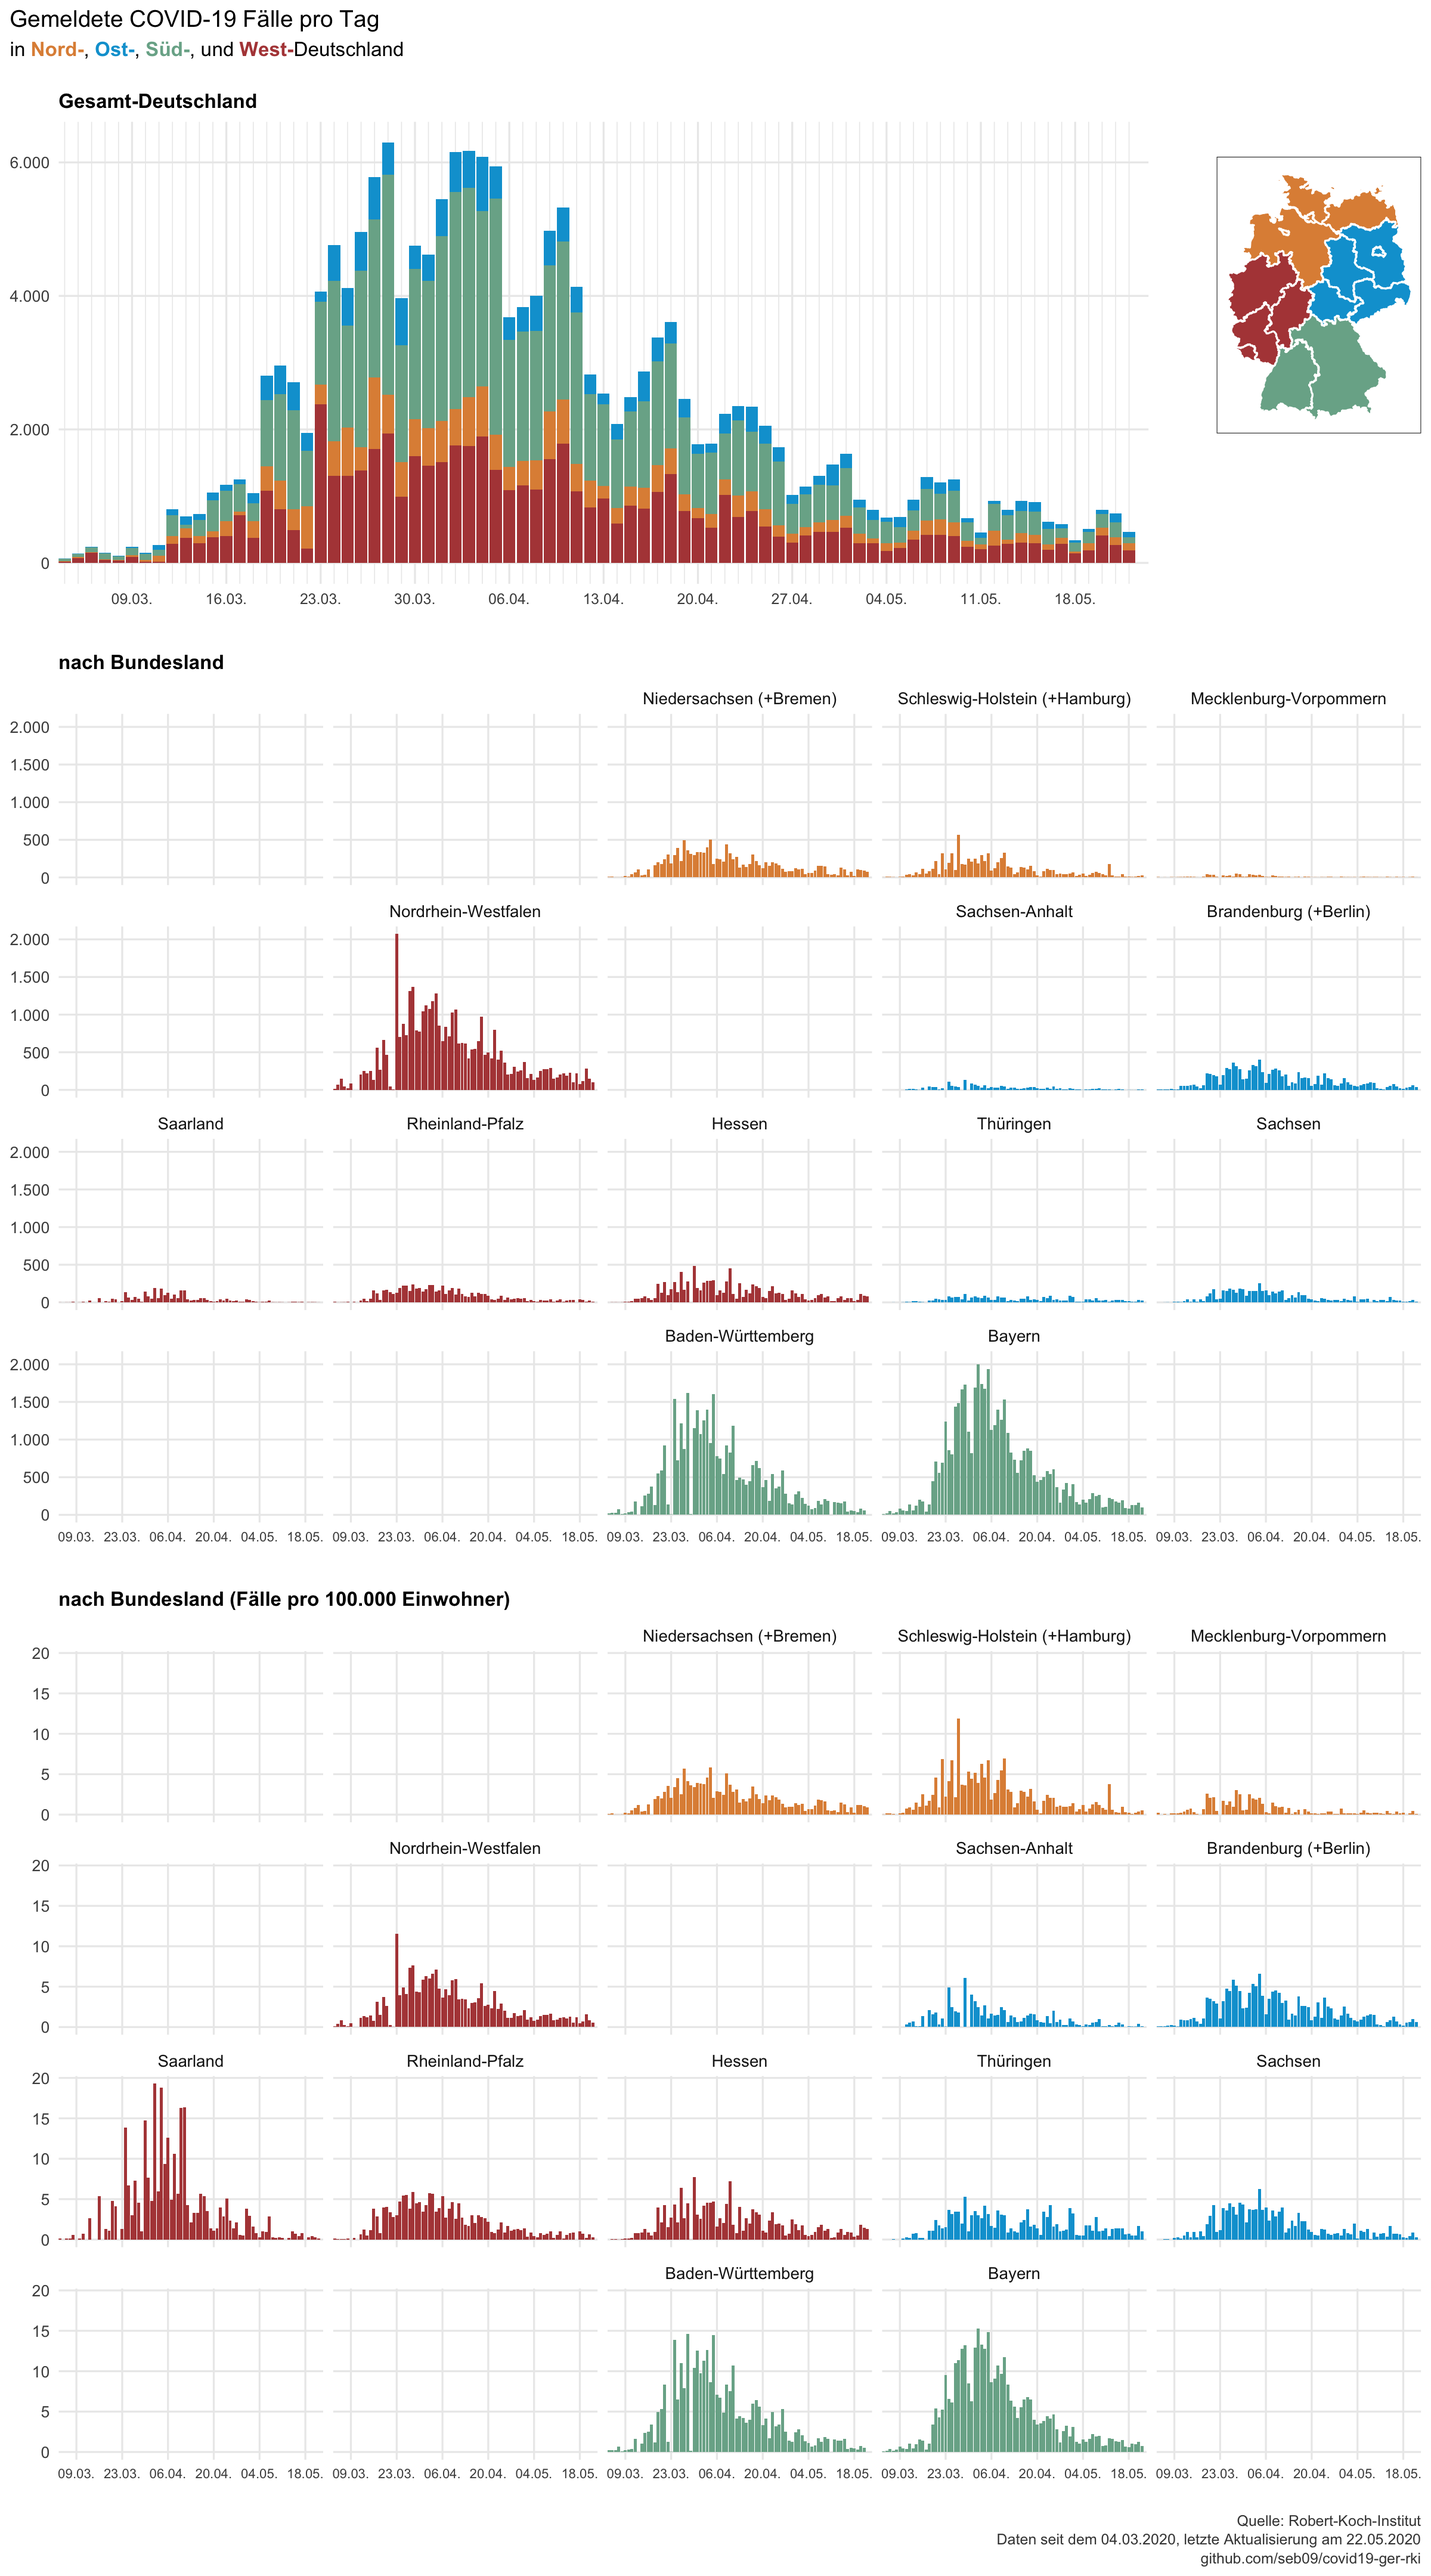
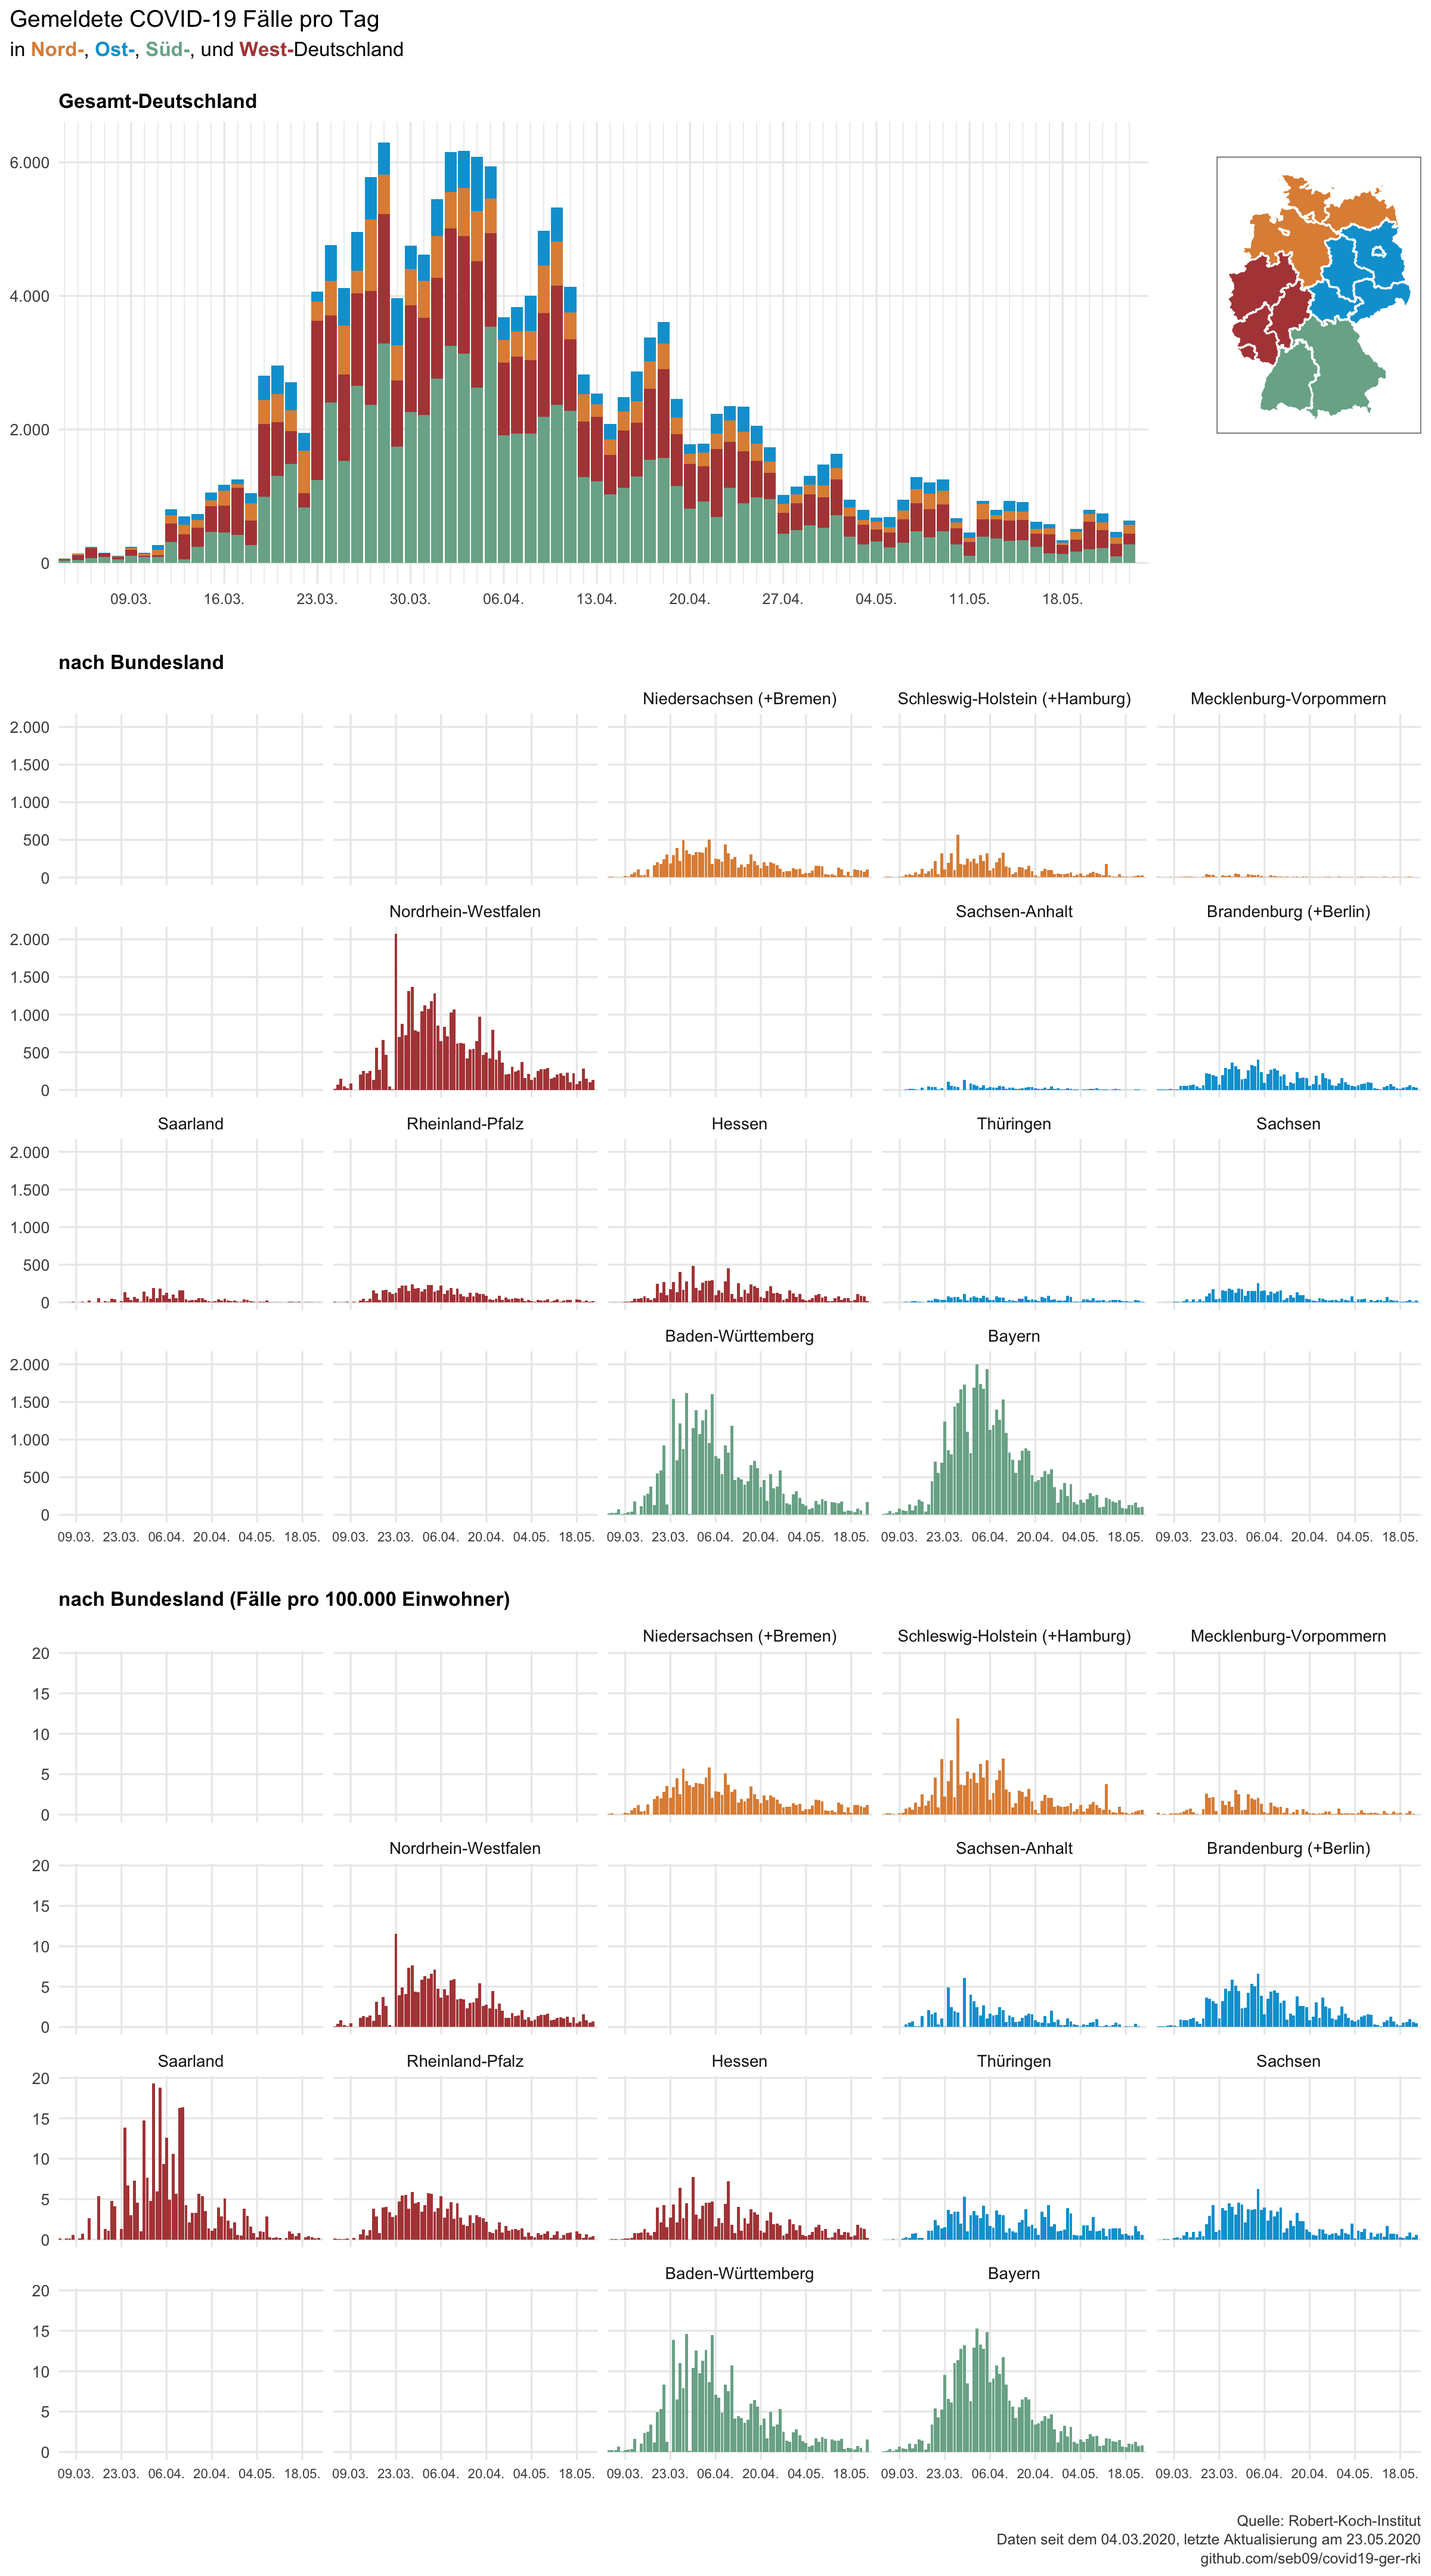
daily update 2020-05-23

diff --git a/README.md b/README.md
@@ -1,6 +1,6 @@
 Data from the Robert-Koch-Institut on COVID-19 in Germany
 ================
-Last update: 2020-05-22
+Last update: 2020-05-23
 
 This repository contains data on reported COVID-19 cases in Germany and
 its federal states that is published daily by the Robert-Koch-Institut
@@ -14,26 +14,26 @@ corona_rki %>%
   print(n = 16)
 ```
 
-    ## # A tibble: 1,274 x 6
+    ## # A tibble: 1,290 x 6
     ##    Datum      Bundesland      Fallzahl Todeszahl Fallzahl_neu Todeszahl_neu
     ##    <date>     <chr>              <dbl>     <dbl>        <dbl>         <dbl>
-    ##  1 2020-05-22 Baden-Württemb…    34174      1680           -1             0
-    ##  2 2020-05-22 Bayern             46024      2358           95            10
-    ##  3 2020-05-22 Berlin              6585       190           30             4
-    ##  4 2020-05-22 Brandenburg         3211       152            6             1
-    ##  5 2020-05-22 Bremen              1291        39           18             0
-    ##  6 2020-05-22 Hamburg             5059       240            6             1
-    ##  7 2020-05-22 Hessen              9656       457           82             6
-    ##  8 2020-05-22 Mecklenburg-Vo…      763        20            1             0
-    ##  9 2020-05-22 Niedersachsen      11420       568           58             2
-    ## 10 2020-05-22 Nordrhein-West…    37010      1547           98             1
-    ## 11 2020-05-22 Rheinland-Pfalz     6566       224           11             0
-    ## 12 2020-05-22 Saarland            2707       157            1             0
-    ## 13 2020-05-22 Sachsen             5197       203           12             2
-    ## 14 2020-05-22 Sachsen-Anhalt      1692        54            3             0
-    ## 15 2020-05-22 Schleswig-Hols…     3039       134           18             0
-    ## 16 2020-05-22 Thüringen           2818       151           22             0
-    ## # … with 1,258 more rows
+    ##  1 2020-05-23 Baden-Württemb…    34345      1692          171            12
+    ##  2 2020-05-23 Bayern             46132      2367          108             9
+    ##  3 2020-05-23 Berlin              6614       190           29             0
+    ##  4 2020-05-23 Brandenburg         3213       154            2             2
+    ##  5 2020-05-23 Bremen              1296        41            5             2
+    ##  6 2020-05-23 Hamburg             5063       240            4             0
+    ##  7 2020-05-23 Hessen              9670       458           14             1
+    ##  8 2020-05-23 Mecklenburg-Vo…      763        20            0             0
+    ##  9 2020-05-23 Niedersachsen      11521       571          101             3
+    ## 10 2020-05-23 Nordrhein-West…    37139      1555          129             8
+    ## 11 2020-05-23 Rheinland-Pfalz     6582       226           16             2
+    ## 12 2020-05-23 Saarland            2709       157            2             0
+    ## 13 2020-05-23 Sachsen             5219       204           22             1
+    ## 14 2020-05-23 Sachsen-Anhalt      1692        54            0             0
+    ## 15 2020-05-23 Schleswig-Hols…     3062       136           23             2
+    ## 16 2020-05-23 Thüringen           2830       151           12             0
+    ## # … with 1,274 more rows
 
 Data is downloaded each day at 11am from the [website of the
 RKI](https://www.rki.de/DE/Content/InfAZ/N/Neuartiges_Coronavirus/Fallzahlen.html)
